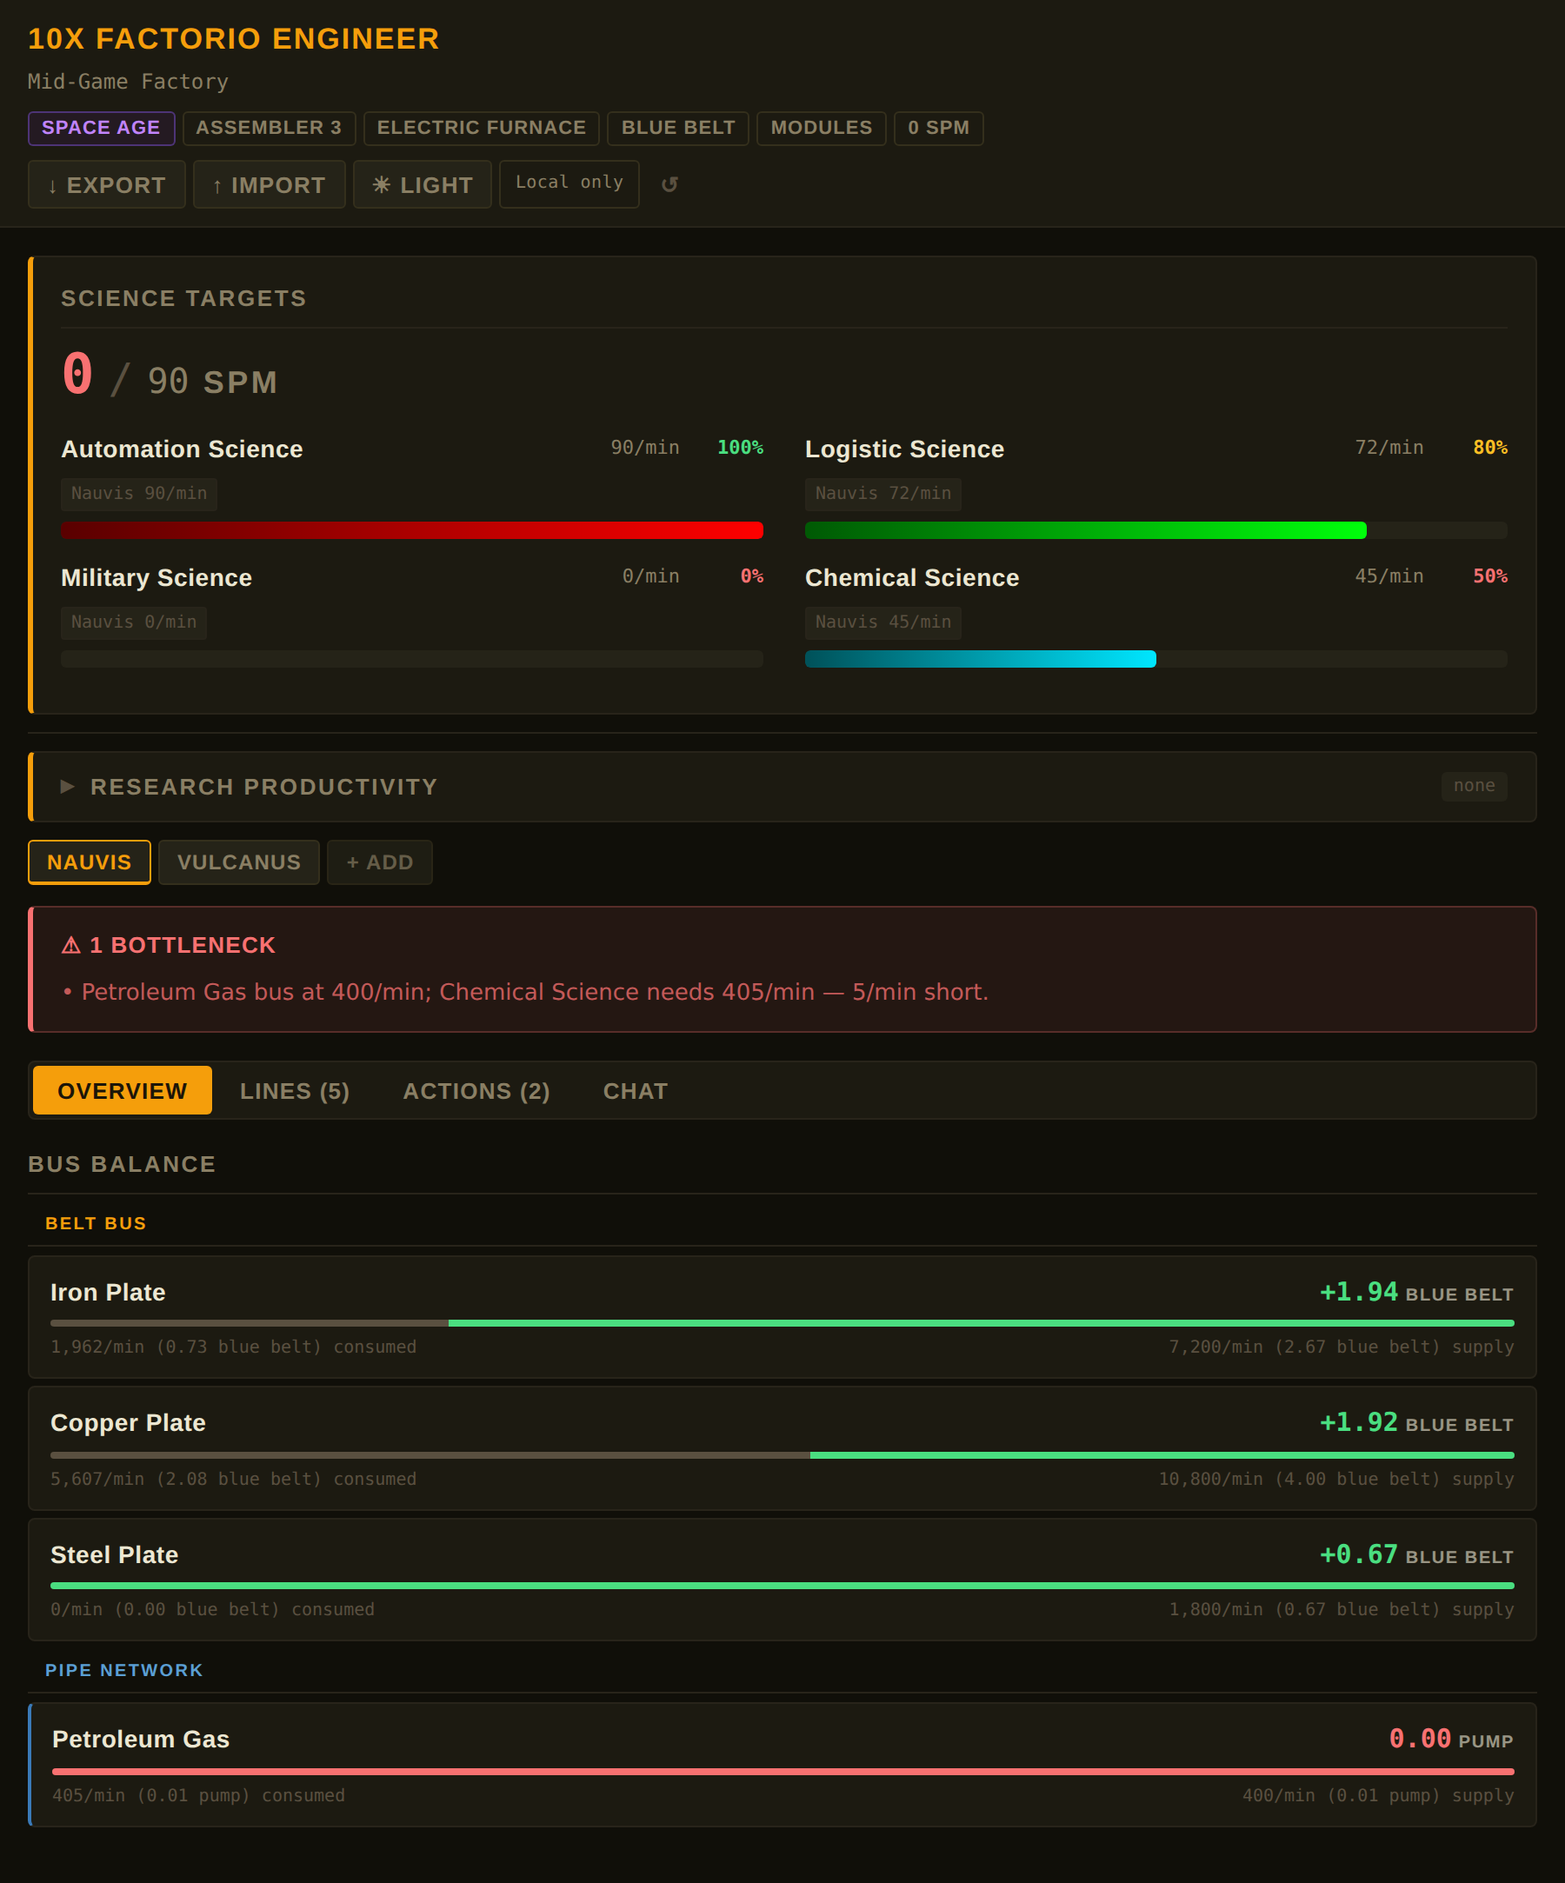
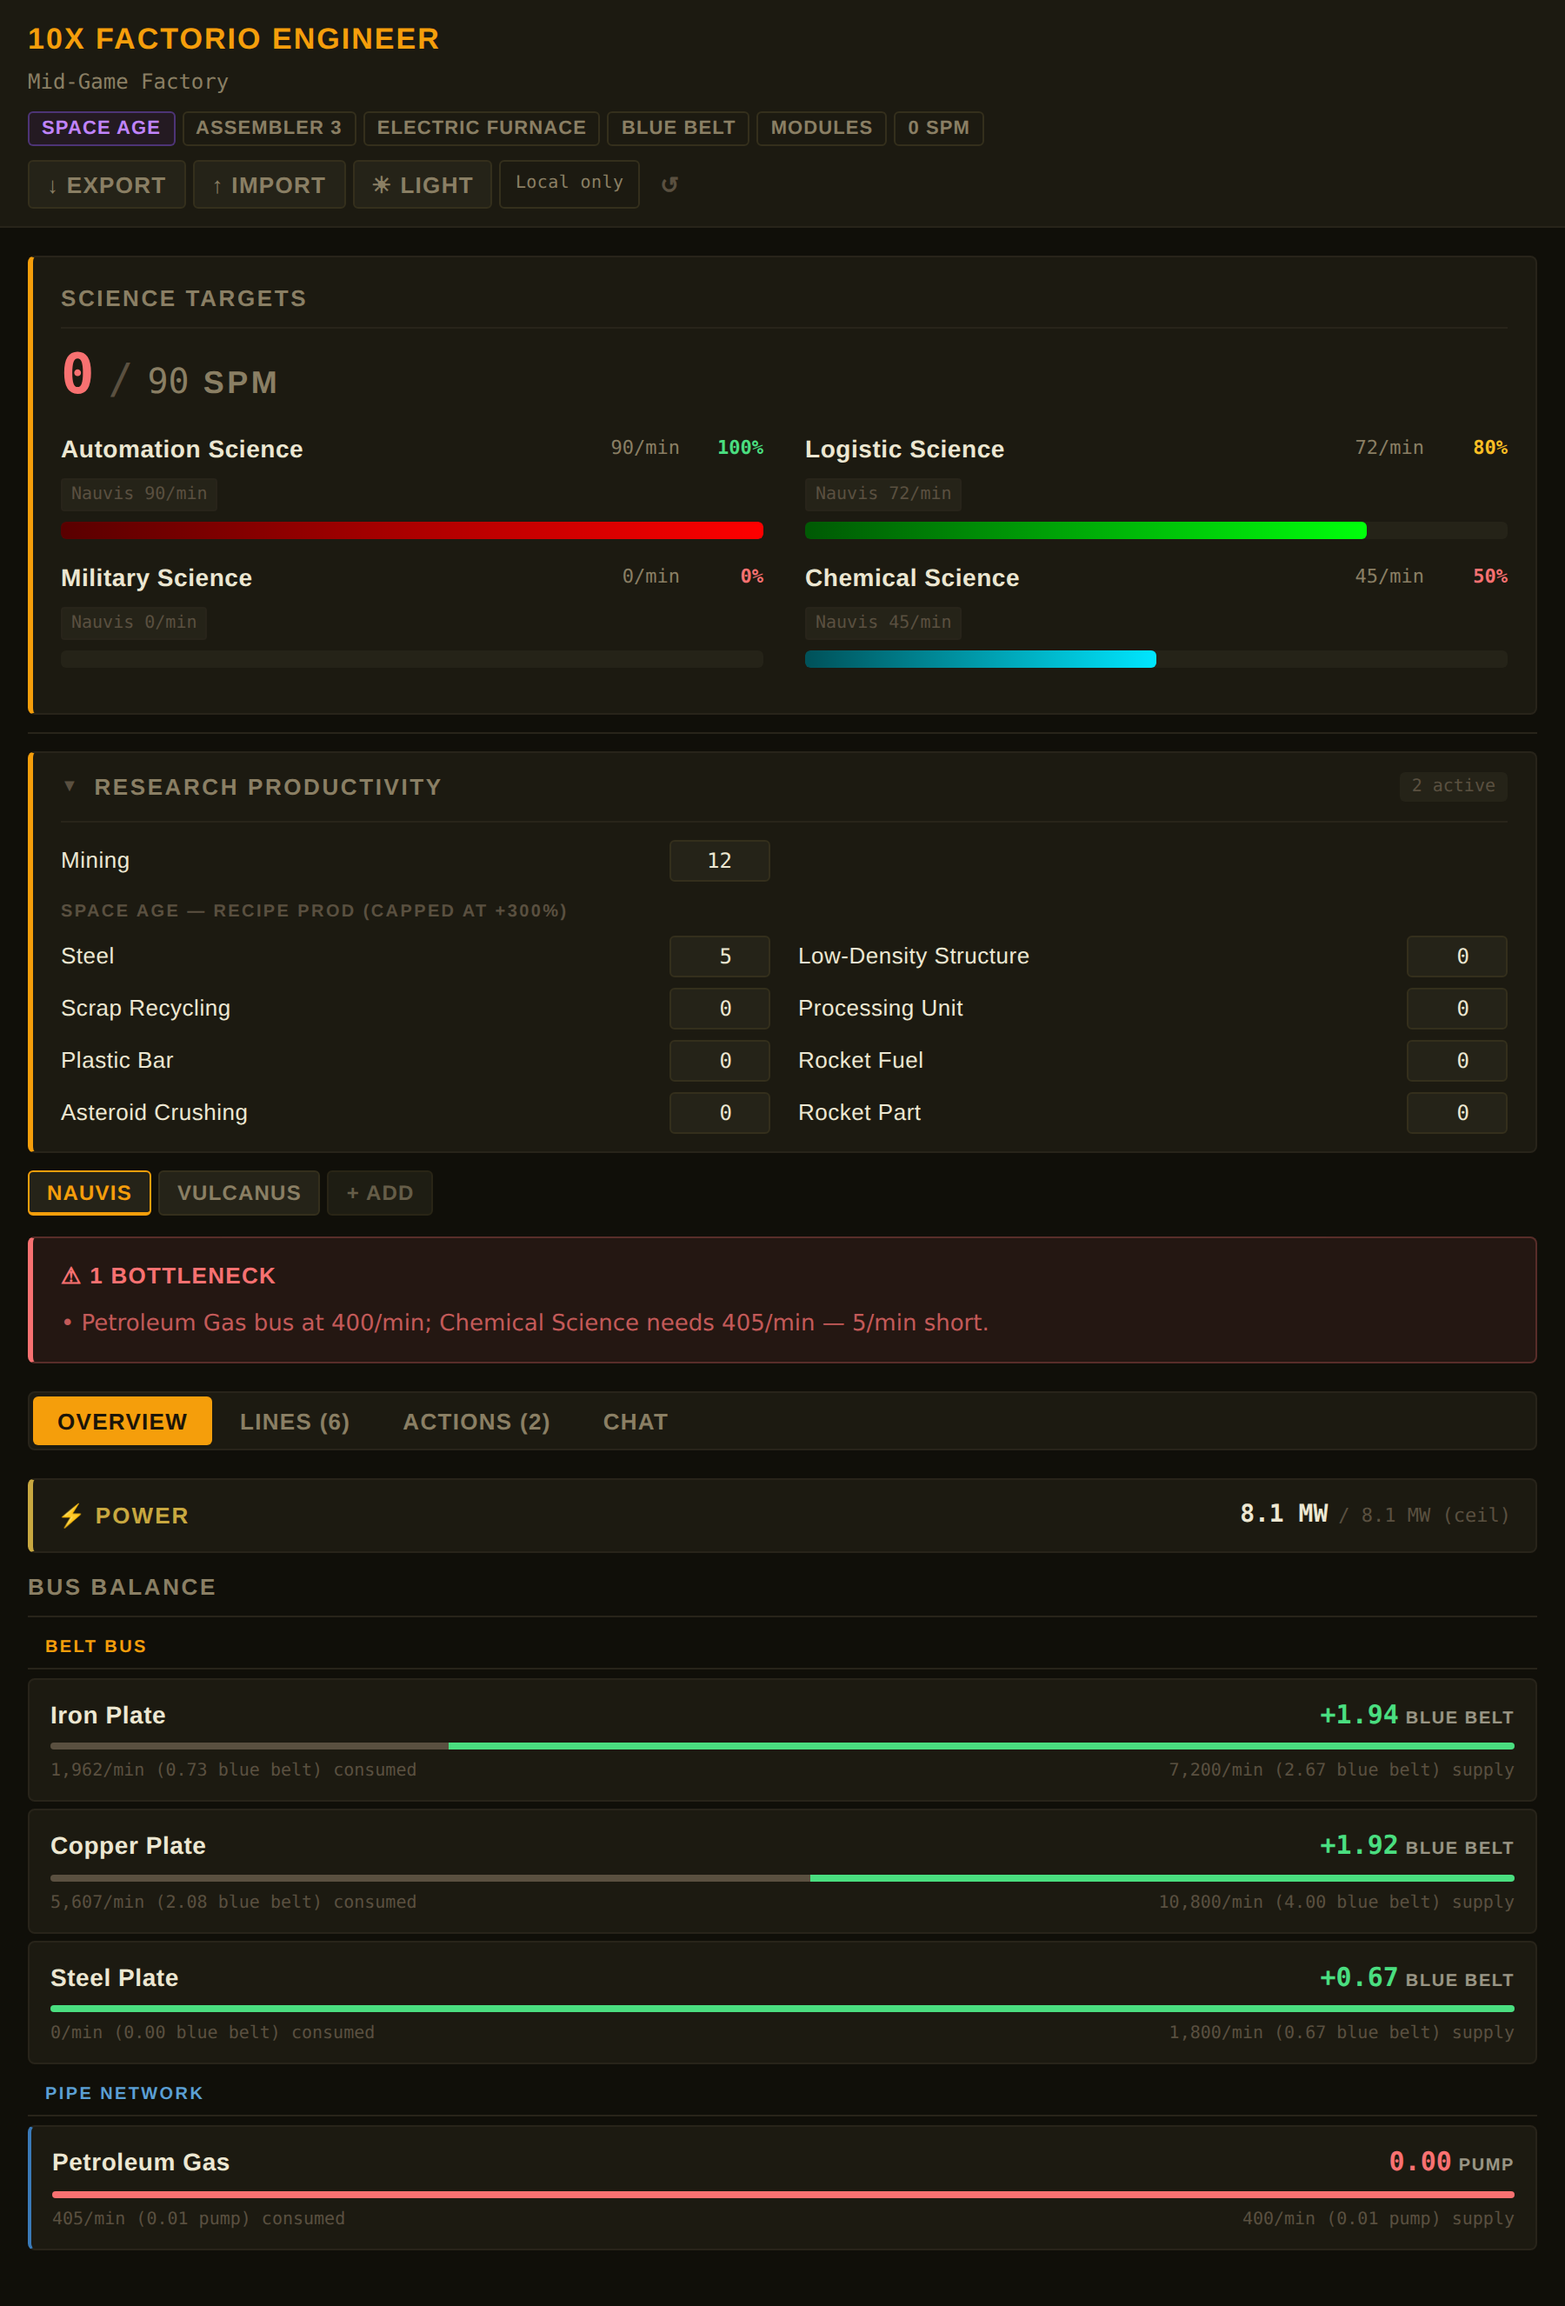
fix(dashboard): expand LDS label; README screenshots showcase research
- Fix 'Low-Density Struct.' → 'Low-Density Structure' in both dashboard
  copies (dev and assets)
- README screenshots now show the research section expanded (pre_click
  on #research-toggle), with mining-productivity=12 and steel=5 active,
  plus an iron-ore mining line that triggers the ⟳ stale chip
- capture_full_page gains pre_click support; README_SCENARIOS updated to
  5-tuples; run_readme_screenshots unpacks accordingly

https://claude.ai/code/session_01WsF6z88R2GpzCATSQ3QnMS

diff --git a/dev/dashboard.html b/dev/dashboard.html
@@ -552,7 +552,7 @@ const DEFAULT_STATE = {
 const PRODUCTIVITY_RESEARCH = {
   'mining-productivity':                { label: 'Mining',              recipes: [],                                                                  sa: false },
   'steel-productivity':                 { label: 'Steel',               recipes: ['steel-plate', 'casting-steel'],                                    sa: true  },
-  'low-density-structure-productivity': { label: 'Low-Density Struct.', recipes: ['low-density-structure', 'casting-low-density-structure'],          sa: true  },
+  'low-density-structure-productivity': { label: 'Low-Density Structure', recipes: ['low-density-structure', 'casting-low-density-structure'],          sa: true  },
   'scrap-recycling-productivity':       { label: 'Scrap Recycling',     recipes: ['scrap-recycling'],                                                 sa: true  },
   'processing-unit-productivity':       { label: 'Processing Unit',     recipes: ['processing-unit'],                                                 sa: true  },
   'plastic-bar-productivity':           { label: 'Plastic Bar',         recipes: ['plastic-bar', 'bioplastic'],                                       sa: true  },

diff --git a/10x-factorio-engineer/assets/dashboard.html b/10x-factorio-engineer/assets/dashboard.html
@@ -507,7 +507,7 @@ chat_log: [],
 const PRODUCTIVITY_RESEARCH = {
 'mining-productivity':                { label: 'Mining',              recipes: [],                                                                  sa: false },
 'steel-productivity':                 { label: 'Steel',               recipes: ['steel-plate', 'casting-steel'],                                    sa: true  },
-'low-density-structure-productivity': { label: 'Low-Density Struct.', recipes: ['low-density-structure', 'casting-low-density-structure'],          sa: true  },
+'low-density-structure-productivity': { label: 'Low-Density Structure', recipes: ['low-density-structure', 'casting-low-density-structure'],          sa: true  },
 'scrap-recycling-productivity':       { label: 'Scrap Recycling',     recipes: ['scrap-recycling'],                                                 sa: true  },
 'processing-unit-productivity':       { label: 'Processing Unit',     recipes: ['processing-unit'],                                                 sa: true  },
 'plastic-bar-productivity':           { label: 'Plastic Bar',         recipes: ['plastic-bar', 'bioplastic'],                                       sa: true  },

diff --git a/dev/screenshot_tests.py b/dev/screenshot_tests.py
@@ -639,15 +639,41 @@ LINE_CARD_SCENARIOS = [
 # ── Group 4: README full-page screenshots ────────────────────────────────────
 
 def make_state_readme() -> dict:
-    """Rich multi-planet state that showcases science overview, bus balance, and a bottleneck."""
+    """Rich multi-planet state showcasing science, research, bus balance, and a bottleneck."""
     state = _base_state("Mid-Game Factory")
     state["module_configs"] = {"assembling-machine-3": MACHINE_MODULE_CONFIGS["normal"]}
+    state["research_levels"] = {
+        "mining-productivity": 12,
+        "steel-productivity":  5,
+    }
     bus_items = [
         {"item": "iron-plate",    "rate": 7200},
         {"item": "copper-plate",  "rate": 10800},
         {"item": "steel-plate",   "rate": 1800},
         {"item": "petroleum-gas", "rate": 400, "fluid": True},
     ]
+    # Iron ore line with stale chip: cli_result was computed at mining-prod 0,
+    # but STATE now has level 12 → triggers ⟳ stale on the card.
+    iron_ore_cli = {
+        "item": "iron-ore",
+        "rate_per_min": 1800.0,
+        "production_steps": [],
+        "raw_resources": {"iron-ore": 1800.0},
+        "co_products": {},
+        "miners_needed": {
+            "iron-ore": {
+                "machine": "electric-mining-drill",
+                "machine_count": 180.0,
+                "machine_count_ceil": 180,
+                "power_kw": 8100.0,
+                "beacon_power_kw": 0.0,
+            }
+        },
+        "total_power_mw": 8.1,
+        "total_power_mw_ceil": 8.1,
+        "bus_inputs": {},
+        "research_levels": {},
+    }
     lines = [
         make_minimal_line("automation-science-pack",  "Automation Science",  90,  90,
                           bus_inputs={"iron-plate": 90}),
@@ -658,6 +684,13 @@ def make_state_readme() -> dict:
         make_minimal_line("military-science-pack",    "Military Science",    90,   0),
         make_minimal_line("electronic-circuit",       "Green Circuits",     1800, 1800,
                           bus_inputs={"iron-plate": 1800, "copper-plate": 5400}),
+        {
+            "item": "iron-ore",
+            "label": "Iron Ore Mining",
+            "target_rate": 1800,
+            "effective_rate": 1800,
+            "cli_result": iron_ore_cli,
+        },
     ]
     state["locations"] = [
         _loc("nauvis", "Nauvis",
@@ -682,9 +715,9 @@ def make_state_readme() -> dict:
 
 
 README_SCENARIOS = [
-    # (filename,             state_factory,    tab,        light)
-    ("readme__dark.png",   make_state_readme, "overview", False),
-    ("readme__light.png",  make_state_readme, "overview", True),
+    # (filename,             state_factory,    tab,        light,  pre_click)
+    ("readme__dark.png",   make_state_readme, "overview", False,  "#research-toggle"),
+    ("readme__light.png",  make_state_readme, "overview", True,   "#research-toggle"),
 ]
 
 
@@ -714,7 +747,7 @@ async def capture_section(context, state, selector, tab, out_path,
         os.unlink(tmp_path)
 
 
-async def capture_full_page(context, state, tab, out_path, light_theme=False):
+async def capture_full_page(context, state, tab, out_path, light_theme=False, pre_click=None):
     """Render state and screenshot the full viewport (header + tabs + content)."""
     html = build_html(state, light_theme=light_theme)
     with tempfile.NamedTemporaryFile(
@@ -729,6 +762,9 @@ async def capture_full_page(context, state, tab, out_path, light_theme=False):
         await page.wait_for_selector(".tab-panel.active", timeout=10_000)
         await page.evaluate("document.fonts.ready")
         await page.wait_for_timeout(300)
+        if pre_click:
+            await page.locator(pre_click).first.click()
+            await page.wait_for_timeout(150)
         await page.screenshot(path=out_path, full_page=True)
         await page.close()
     finally:
@@ -811,12 +847,13 @@ async def run_line_card_variants(context):
 
 async def run_readme_screenshots(context):
     total = 0
-    for filename, state_factory, tab, light_theme in README_SCENARIOS:
+    for filename, state_factory, tab, light_theme, pre_click in README_SCENARIOS:
         state    = state_factory()
         out_path = os.path.join(SCREENSHOTS_DIR, filename)
         theme_tag = " [light]" if light_theme else " [dark]"
         try:
-            await capture_full_page(context, state, tab, out_path, light_theme=light_theme)
+            await capture_full_page(context, state, tab, out_path,
+                                    light_theme=light_theme, pre_click=pre_click)
             total += 1
             print(f"  readme   {filename}{theme_tag}")
         except Exception as exc:
